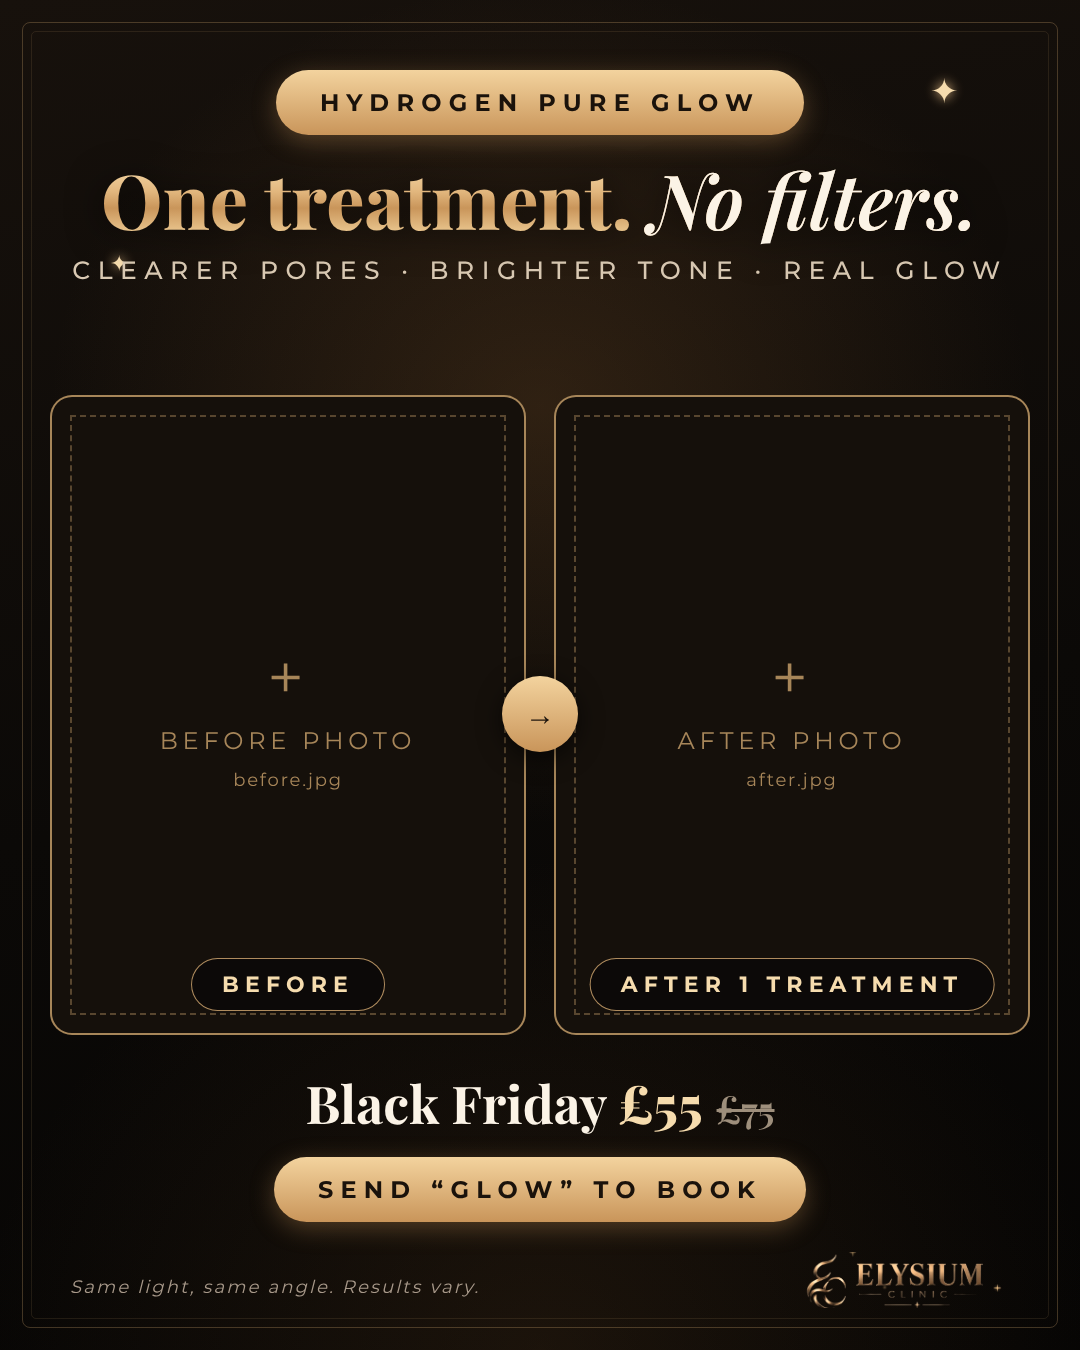
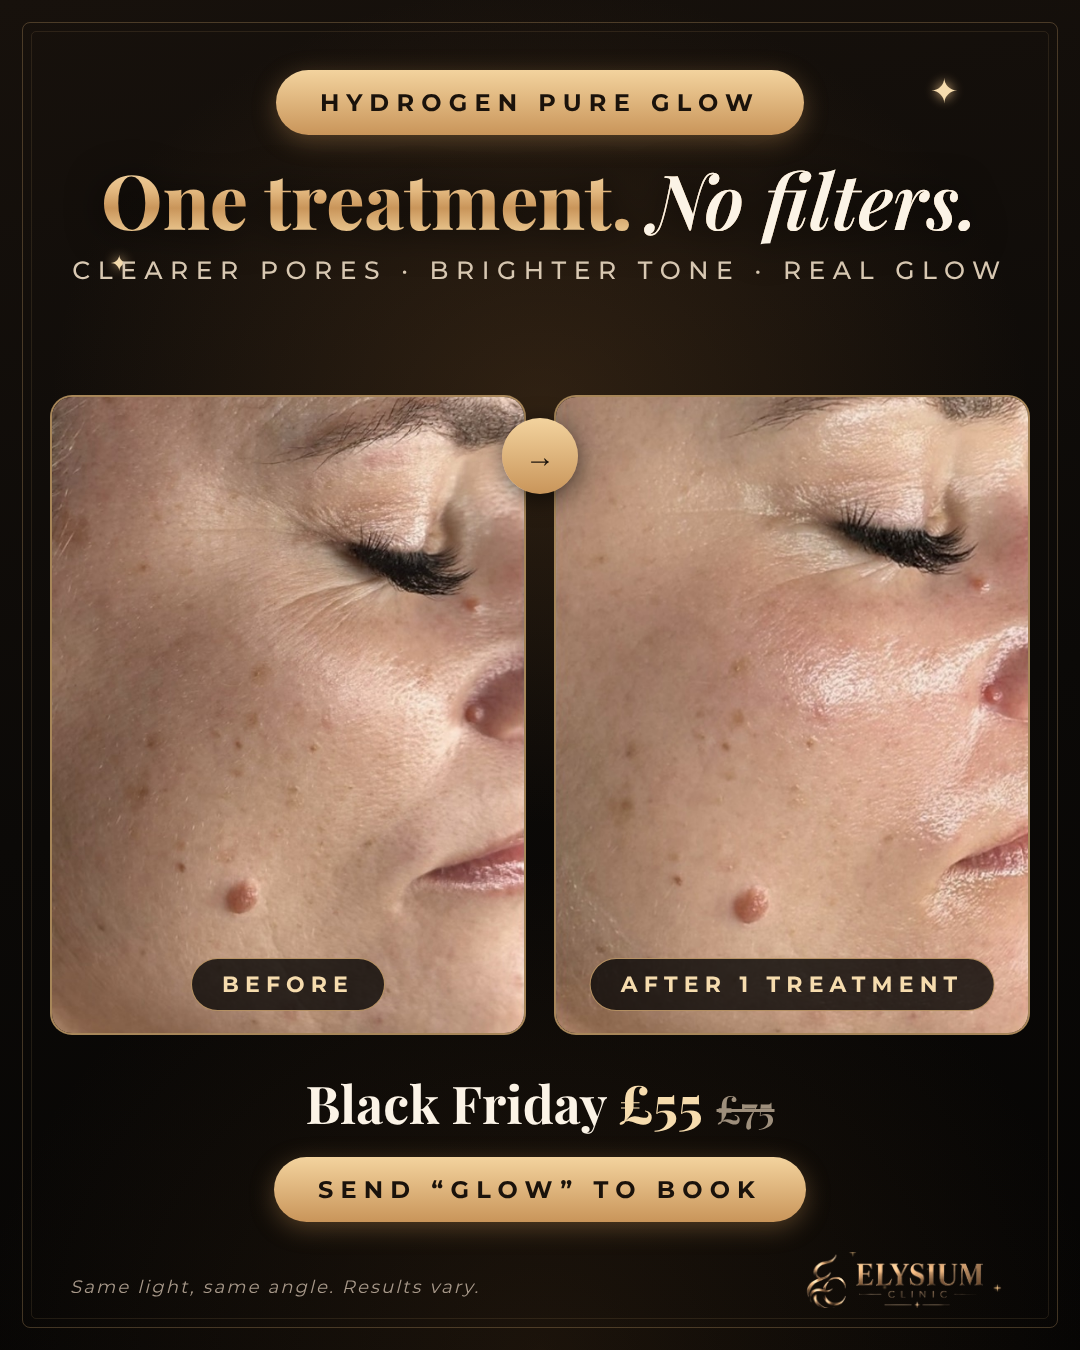
Add real before/after photos and client review to 18.11 graphics
Claude-Session: https://claude.ai/code/session_01SaUhS5PmeWQNkRxuMvQBTg

diff --git a/posts_18_11/src/story2_review.html b/posts_18_11/src/story2_review.html
@@ -4,11 +4,17 @@
 .h{font-size:96px;font-weight:700;line-height:1.08;margin-top:30px}
 .h em{font-style:italic;font-weight:600}
 .stars{margin-top:24px;font-size:46px;letter-spacing:.25em;color:var(--gold1)}
-.area{position:absolute;left:90px;right:90px;top:720px;height:640px;border-radius:30px}
-.q1{position:absolute;left:110px;top:680px;font-size:220px;line-height:1;color:rgba(216,173,116,.22);font-family:'Playfair Display',serif}
-.q2{position:absolute;right:110px;top:1210px;font-size:220px;line-height:1;color:rgba(216,173,116,.22);font-family:'Playfair Display',serif}
+.area{position:absolute;left:90px;right:90px;top:640px;height:720px;border-radius:30px}
+.q1{position:absolute;left:70px;top:560px;z-index:2;font-size:220px;line-height:1;color:rgba(216,173,116,.55);font-family:'Playfair Display',serif}
+.q2{position:absolute;right:70px;top:1250px;z-index:2;font-size:220px;line-height:1;color:rgba(216,173,116,.55);font-family:'Playfair Display',serif}
+.card{position:absolute;inset:0;display:flex;flex-direction:column;justify-content:center;padding:70px 80px;border-radius:30px;background:rgba(24,18,12,.75);border:1.5px solid rgba(216,173,116,.55);box-shadow:0 30px 70px rgba(0,0,0,.5)}
+.qt{font-family:'Playfair Display',serif;font-size:50px;line-height:1.32;color:#fbf3e6;font-style:italic;font-weight:600}
+.qt b{color:var(--gold1);font-weight:700}
+.who{margin-top:44px;display:flex;align-items:center;gap:18px;font-size:24px;letter-spacing:.22em;color:var(--gold);font-weight:600}
+.who span{flex:0 0 60px;height:1px;background:var(--gold)}
+.src{margin-top:10px;margin-left:78px;font-size:21px;letter-spacing:.12em;color:#a8998a}
 .area img{width:100%;height:100%;object-fit:contain;border-radius:24px}
-.thanks{position:absolute;left:0;right:0;top:1395px;text-align:center;font-size:34px;color:#e8dccb;font-family:'Playfair Display',serif;font-style:italic}
+.thanks{position:absolute;left:0;right:0;top:1430px;text-align:center;font-size:34px;color:#e8dccb;font-family:'Playfair Display',serif;font-style:italic}
 .logo{bottom:170px;width:300px}
 </style></head><body><div class="s"><div class="deco"></div>
 <div class="spark" style="left:880px;top:170px;font-size:36px">✦</div>
@@ -16,6 +22,6 @@
 <div class="h goldtext serif">What our clients<br><em>say</em> 🤍</div>
 <div class="stars">★★★★★</div></div>
 <div class="q1">“</div><div class="q2">”</div>
-<div class="area">__REVIEW__</div>
+<div class="area"><div class="card"><div class="qt">I’m blown away by the fantastic results after each treatment! <b>My skin never looked better.</b> Monika has a huge knowledge and provides treatments to the highest standards.</div><div class="who"><span></span>IZABELA B.</div><div class="src">Facebook recommendation</div></div></div>
 <div class="thanks">Thank you for trusting us</div>
 <div class="logo"><img src="logo.png"></div></div></body></html>

diff --git a/posts_18_11/src/p3_post.html b/posts_18_11/src/p3_post.html
@@ -7,7 +7,7 @@ html,body{height:1350px}.s{height:1350px}
 .slot{top:395px;width:476px;height:640px;border-radius:22px}
 #b{left:50px}#a{right:50px}
 .tag{bottom:22px}
-.vs{position:absolute;top:676px;left:50%;transform:translateX(-50%);width:76px;height:76px;border-radius:50%;background:linear-gradient(180deg,#f3d39e,#c9955a);color:#1a120b;display:flex;align-items:center;justify-content:center;font-size:30px;font-weight:700;box-shadow:0 6px 24px rgba(0,0,0,.6);z-index:2}
+.vs{position:absolute;top:418px;left:50%;transform:translateX(-50%);width:76px;height:76px;border-radius:50%;background:linear-gradient(180deg,#f3d39e,#c9955a);color:#1a120b;display:flex;align-items:center;justify-content:center;font-size:30px;font-weight:700;box-shadow:0 6px 24px rgba(0,0,0,.6);z-index:2}
 .bottom{position:absolute;top:1068px;left:0;right:0;text-align:center}
 .price{font-size:52px;font-weight:700;color:#fbf3e6}
 .price s{color:#9e8f7c;font-size:38px;font-weight:600;margin-left:14px;text-decoration-thickness:3px}

diff --git a/posts_18_11/src/common.css b/posts_18_11/src/common.css
@@ -24,5 +24,5 @@ html,body{width:1080px;height:1920px;background:#0b0907;overflow:hidden}
 /* photo slots: placeholder shows only when the photo file is missing */
 .slot{position:absolute;overflow:hidden;background:#15100b;border:2px solid rgba(216,173,116,.75)}
 .slot .ph{position:absolute;inset:0;display:flex;flex-direction:column;align-items:center;justify-content:center;gap:14px;color:rgba(216,173,116,.75);font-size:24px;letter-spacing:.2em;text-align:center;border:2px dashed rgba(216,173,116,.35);margin:18px}
-.slot img{position:absolute;inset:0;width:100%;height:100%;object-fit:cover}
+.slot img{position:absolute;inset:0;width:100%;height:100%;object-fit:cover;object-position:center 35%}
 .tag{position:absolute;left:50%;transform:translateX(-50%);padding:12px 30px;border-radius:40px;background:rgba(11,9,7,.82);border:1.5px solid rgba(216,173,116,.8);color:var(--gold1);font-weight:700;font-size:22px;letter-spacing:.28em;white-space:nowrap}

diff --git a/posts_18_11/teksty.md b/posts_18_11/teksty.md
@@ -4,8 +4,8 @@ Wg „Plan marketingowy” (P3, cel: przed i po, słowo-klucz **GLOW**) i „Pla
 Publikacja posta: 19:00–20:00. Stories: 8:30 · 13:00 · 20:30.
 
 ## ⚠ Przed publikacją
-1. Wrzuć do `src/` dwa prawdziwe zdjęcia klientki: `before.jpg` i `after.jpg` (to samo światło i kąt, bez filtrów, **zgoda klientki na piśmie**).
-2. Opcjonalnie zrzut opinii jako `src/review.png` (za zgodą, bez nazwiska). Możesz też dodać go w Instagramie jako naklejkę ze zdjęciem na gotowe tło.
+1. ✅ Zdjęcia przed i po są już w grafikach (`src/before.jpg`, `src/after.jpg`). Upewnij się, że masz zgodę klientki na publikację.
+2. ✅ Opinia Izabeli B. jest wstawiona w story 2 (bez nazwiska). Dobrze mieć jej zgodę na udostępnienie.
 3. Uruchom `node src/render.js`. Grafiki zapiszą się w tym folderze ze zdjęciami w ramkach.
 
 ---
@@ -50,7 +50,7 @@ Po publikacji: oznacz lokalizację „Bradford, West Yorkshire”, odpowiadaj na
 - Odpowiedzi zachowaj: wykorzystasz je w piątkowym Q&A (20.11).
 
 ## STORY 2 — 13:00 · `story2_1300_review.png`
-- Wklej zrzut opinii (Google lub DM, za zgodą, bez nazwiska) w puste pole na środku.
+- Opinia jest już na grafice (Izabela B., rekomendacja z Facebooka).
 - **Naklejka „Link”** pod napisem „Thank you for trusting us”: link do opinii Google, tekst „Leave us a review”.
 - Zapisz w wyróżnionych: OPINIE.
 
